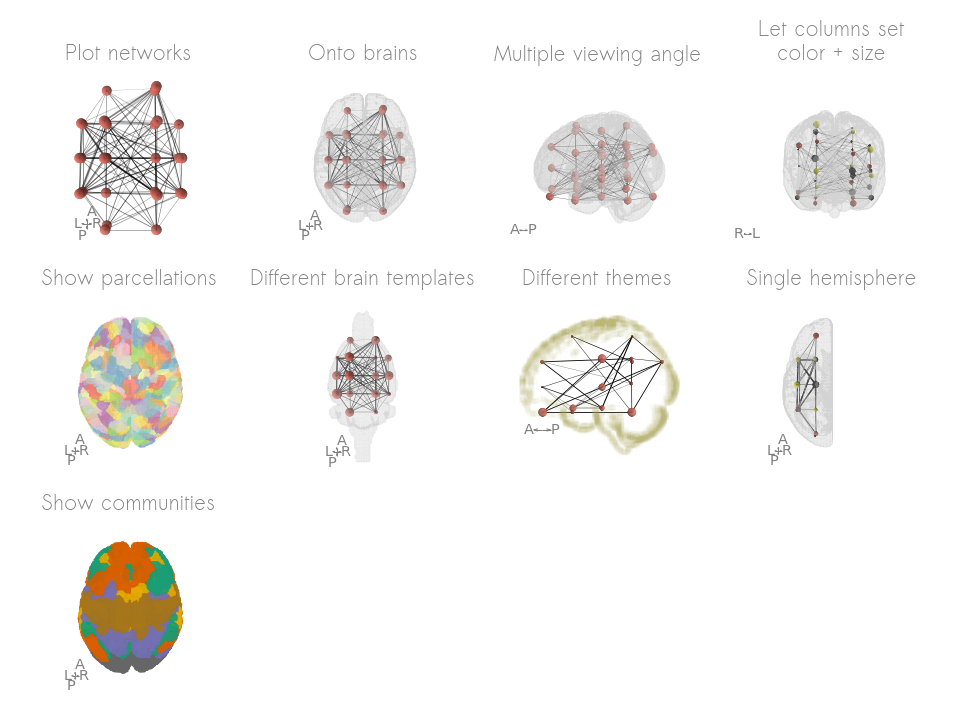
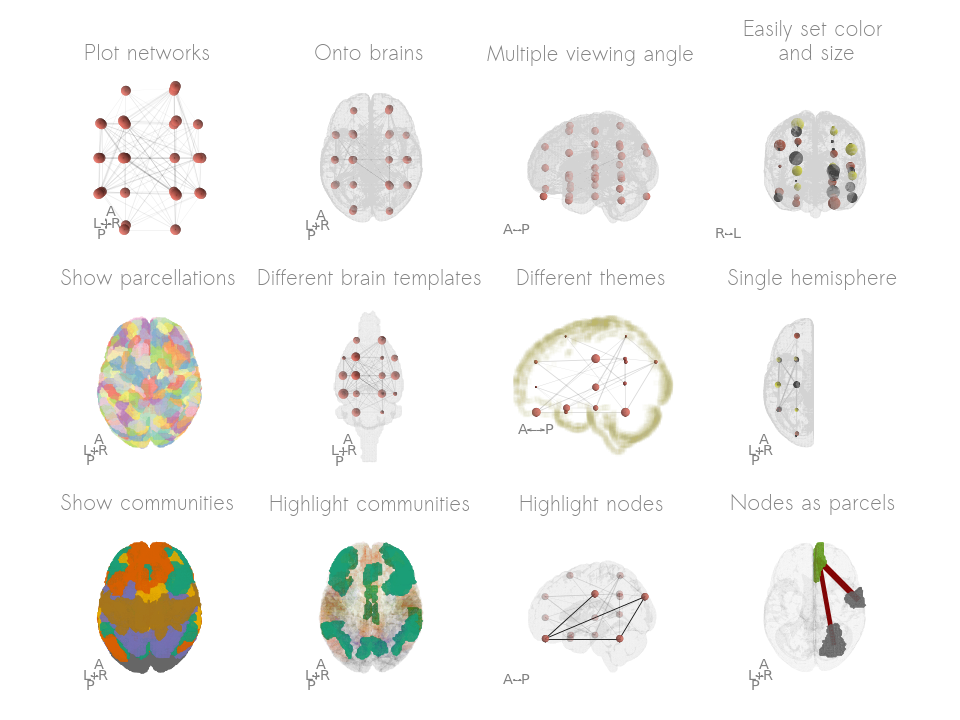
highlight result

diff --git a/netplotbrain/plot.py b/netplotbrain/plot.py
@@ -3,16 +3,18 @@ import numpy as np
 import inspect
 import pandas as pd
 from .plotting import _plot_template, _plot_template_style_filled, _plot_template_style_cloudy,\
-    _plot_edges, _plot_nodes, _plot_spheres, _set_axes_equal, _set_axes_radius, _get_view,\
+    _plot_edges, _plot_nodes, _plot_spheres,\
     _scale_nodes, _add_axis_arrows, _plot_template_style_surface, _get_nodes_from_nii, _plot_parcels,\
-    _select_single_hemisphere_nodes, _npedges2dfedges, _add_subplot_title, get_frame_input, _get_colorby_colors
+    _select_single_hemisphere_nodes, _npedges2dfedges, _add_subplot_title, get_frame_input
+    
+from .utils import _highlight_nodes, _get_colorby_colors, _set_axes_equal, _set_axes_radius, _get_view
 
 
 def plot(nodes=None, fig=None, ax=None, view='L', frames=1, edges=None, template=None, templatestyle='filled', templatealpha=0.2,
          templatevoxsize=None, templatecolor='lightgray', surface_resolution=2, templateedgethreshold=0.7, arrowaxis='auto', arrowlength=10,
          arroworigin=None, edgecolor='k', nodesize=1, nodescale=5, nodecolor='salmon', nodetype='spheres', nodecolorby=None,
          nodecmap='Dark2', edgescale=1, edgeweights=True, nodecols=['x', 'y', 'z'], nodeimg=None, nodealpha=1, hemisphere='both', title='auto', highlightnodes=None,
-         edgealpha=1):
+         edgealpha=1, highlightlevel=0.85, edgehighlightbehaviour='both'):
     # sourcery skip: merge-nested-ifs
     """
     Plot a network on a brain
@@ -104,7 +106,18 @@ def plot(nodes=None, fig=None, ax=None, view='L', frames=1, edges=None, template
         List or int point out which nodes you want to be highlighted.
         If dict, should be a single column-value pair.
         Example: highlight all nodes of that, in the node dataframe, have a community
-        value of 1, the input will be {'community': 1}.    
+        value of 1, the input will be {'community': 1}.   
+    highlightlevel : float
+        Intensity of the highlighting (opposite of alpha).
+        Value between 0 and 1, if 1, non-highlighted nodes are fully transparent.
+        If 0, non-highlighted nodes are same alpha level as highlighted nodes.
+        Default 0.85. 
+    edgehighlightbehaviour : str
+        Alternatives "both" or "any" or None.
+        Governs edge dimming when highlightnodes is on
+        If both, then highlights only edges between highlighted nodes.
+        If any, then only edges connecting any of the nodes are highlighted.
+
 
     """
     # Load edge and nodes if string is provided. 
@@ -112,13 +125,6 @@ def plot(nodes=None, fig=None, ax=None, view='L', frames=1, edges=None, template
         nodes = pd.read_csv(nodes, sep='\t', index_col=0)
     if isinstance(edges, str): 
         edges = pd.read_csv(edges, sep='\t', index_col=0)
-    if highlightnodes is not None:
-        if isinstance(highlightnodes, dict):
-            highlight_idx = nodes[highlightnodes.keys()] == highlightnodes.values
-        else:
-            highlight_idx = np.zeros(len(nodes))
-            highlight_idx[highlightnodes] = 1
-        nodes['nbp_highlight'] = highlight_idx
     # get the number of views
     if isinstance(view, list):
         nrows = len(view)
@@ -153,6 +159,8 @@ def plot(nodes=None, fig=None, ax=None, view='L', frames=1, edges=None, template
     # Set nodecolor to colorby argument
     if nodecolorby is not None:
         nodecolor = _get_colorby_colors(nodes, nodecolorby, nodecmap)
+    if highlightnodes is not None:
+        nodecolor, highlightnodes = _highlight_nodes(nodes, nodecolor, nodealpha, highlightnodes, highlightlevel)
     ax_in = ax
     # Prespecify ouput ax list
     ax_out = []
@@ -213,7 +221,8 @@ def plot(nodes=None, fig=None, ax=None, view='L', frames=1, edges=None, template
             if edges is not None:
                 edges_frame = edges.copy()
                 _plot_edges(ax, nodes_frame, edges_frame, edgewidth=edgeweights, edgewidthscale=edgescale,
-                            edgecolor=edgecolor, edgealpha=edgealpha)
+                            edgecolor=edgecolor, edgealpha=edgealpha, highlightnodes=highlightnodes, highlightlevel=highlightlevel,
+                            edgehighlightbehaviour=edgehighlightbehaviour)
             if arrowaxis_row is not None:
                 _add_axis_arrows(ax, dims=arrowaxis_row,
                                  length=arrowlength, origin=arroworigin,

diff --git a/examples/showcase_image.py b/examples/showcase_image.py
@@ -67,11 +67,12 @@ netplotbrain.plot(nodes=nodes,
                   nodealpha=0.5,
                   nodecolorby='community',
                   nodesize='centrality_measure2',
-                  title='Let columns set\ncolor + size',
+                  title='Easily set color\n and size',
                   fig=fig, ax=ax,
                   nodecmap='gnuplot',
                   edgealpha=0.5,
-                  edgescale=0.5)
+                  edgescale=0.5,
+                  nodescale=10)
 
 
 
@@ -164,6 +165,72 @@ netplotbrain.plot(nodes=atlasinfo,
                   nodecolorby='yeo7networks',
                   fig=fig, ax=ax,
                   title='Show communities')
+
+
+ax = fig.add_subplot(3, 4, 10, projection='3d')
+netplotbrain.plot(nodes=atlasinfo,
+                  nodeimg={'atlas': 'Schaefer2018',
+                           'desc': '400Parcels7Networks',
+                           'resolution': 1},
+                  template='MNI152NLin2009cAsym',
+                  templatestyle=None,
+                  view=['S'],
+                  nodetype='parcels',
+                  nodecmap='Dark2',
+                  nodecolorby='yeo7networks',
+                  nodealpha = 0.8,
+                  title = 'Highlight communities',
+                  highlightnodes={'yeo7networks': 'Cont'},
+                  highlightlevel=0.95,
+                  fig=fig, ax=ax)
+
+
+
+ax = fig.add_subplot(3, 4, 11, projection='3d')
+netplotbrain.plot(template='MNI152NLin2009cAsym',
+                  templatestyle='surface',
+                  view='L',
+                  nodes='./examples/example_nodes.tsv',
+                  hemisphere=['R'],
+                  nodescale=5,
+                  edges='./examples/example_edges.tsv',
+                  templatealpha=0.05,
+                  title='Highlight nodes',
+                  templatecolor='gray',
+                  highlightnodes=[6, 8, 25, 29],
+                  fig=fig, ax=ax)
+
+
+ax = fig.add_subplot(3, 4, 12, projection='3d')
+
+
+edgedf = pd.DataFrame()
+edgedf['i'] = [60, 95]
+edgedf['j'] = [95, 51]
+edgedf['weight'] = [1, 0.75]
+nodes_col = np.zeros([100])
+nodes_col[95] = 1
+nodes_col[[51, 60]] = 2
+nodes = pd.DataFrame(data={'seed_roi': nodes_col})
+netplotbrain.plot(template='MNI152NLin2009cAsym',
+                  templatestyle='surface',
+                  view='S',
+                  nodeimg={'atlas': 'Schaefer2018',
+                           'desc': '100Parcels7Networks',
+                           'resolution': 1},
+                  nodetype='parcels',
+                  edges=edgedf,
+                  nodes=nodes,
+                  templatealpha=0.03,
+                  title='Nodes as parcels',
+                  templatecolor='gray',
+                  nodecolor='Pastel1',
+                  highlightnodes=[60, 95, 51],
+                  highlightlevel=1,
+                  fig=fig, ax=ax,
+                  edgescale=3,
+                  nodecolorby='seed_roi',
+                  edgecolor='darkred')
 
 
 fig.savefig('./examples/figures/showcase.png', dpi=150)

diff --git a/netplotbrain/plotting/plot_edges.py b/netplotbrain/plotting/plot_edges.py
@@ -21,7 +21,19 @@ def _npedges2dfedges(edges, edgethreshold=0):
     return df
 
 
-def _plot_edges(ax, nodes, edges, edgewidth=None, edgewidthscale=1, edgecolor='k', edgecol=['i', 'j'], edgealpha=None):
+def _get_edge_highlight_alpha(node_i, node_j, highlightnodes, highlightlevel, edgehighlightbehaviour, edgealpha):
+    if highlightnodes is None or edgehighlightbehaviour is None:
+        pass
+    elif node_i in highlightnodes and node_j in highlightnodes and edgehighlightbehaviour == 'both':
+        pass
+    elif (node_i in highlightnodes or node_j in highlightnodes) and edgehighlightbehaviour == 'any':
+        pass
+    else:
+        edgealpha = edgealpha * (1 - highlightlevel)
+    return edgealpha
+
+
+def _plot_edges(ax, nodes, edges, edgewidth=None, edgewidthscale=1, edgecolor='k', edgecol=['i', 'j'], edgealpha=None, highlightnodes=None, highlightlevel=None, edgehighlightbehaviour='both'):
     """
     Plots the edges on the plot
 
@@ -44,20 +56,35 @@ def _plot_edges(ax, nodes, edges, edgewidth=None, edgewidthscale=1, edgecolor='k
         The third referencees the weights.
     edgealpha : float
         Transparency of edges.
+    highlightnodes : list
+        See netplotbrain.plot
+    highlightlevel : float 
+        See netplotbrain.plot
+    edgehighlightbehaviour : str
+        alternatives "both" or "any" or None.
+        Governs edge dimming when highlightnodes is on
+        If both, then highlights only edges between highlighted nodes.
+        If any, then only edges connecting any of the nodes are highlighted.
+
+
 
     Returns
     ----------------------
     Nothing
     """
+    # Convert highlightnodes binary list to index list
+    hl_idx = np.where(np.array(highlightnodes)==1)[0]
     # if dataframe
     for _, row in edges.iterrows():
-        #if row[edgecol[0]] != 0 and row[edgecol[1]] != 0:
+        # if row[edgecol[0]] != 0 and row[edgecol[1]] != 0:
         if edgewidth is None:
             ew = edgewidthscale
         else:
             ew = row[edgewidth] * edgewidthscale
         if row[edgecol[0]] in nodes.index and row[edgecol[1]] in nodes.index:
+            ea = _get_edge_highlight_alpha(
+                row[edgecol[0]], row[edgecol[1]], hl_idx, highlightlevel, edgehighlightbehaviour, edgealpha)
             xp = nodes.loc[list((row[edgecol[0]], row[edgecol[1]]))]['x']
             yp = nodes.loc[list((row[edgecol[0]], row[edgecol[1]]))]['y']
             zp = nodes.loc[list((row[edgecol[0]], row[edgecol[1]]))]['z']
-            ax.plot(xp, yp, zp, color=edgecolor, linewidth=ew, alpha=edgealpha)
+            ax.plot(xp, yp, zp, color=edgecolor, linewidth=ew, alpha=ea)

diff --git a/netplotbrain/utils/coloring.py b/netplotbrain/utils/coloring.py
@@ -1,0 +1,61 @@
+import matplotlib.cm as cm
+import matplotlib.colors as pltcol
+import numpy as np
+
+
+
+def _colorarray_from_string(cmap, ncolors):
+    """
+    Get colormap array from string that loops through colors
+    """
+    if cmap in pltcol.cnames or cmap[0] == '#': 
+        colors = pltcol.to_rgba_array(cmap)
+        colors = np.vstack([colors] * ncolors)
+    else:
+        colors = cm.get_cmap(cmap).colors
+        colors = colors * int(np.ceil(ncolors / len(colors)))
+        colors = np.array(colors)
+    return colors[:ncolors]
+
+
+def _highlight_nodes(nodes, nodecolor, nodealpha, highlightnodes, highlightlevel=0.75):
+    if isinstance(highlightnodes, dict):
+        highlight_idx = nodes[highlightnodes.keys()] == highlightnodes.values()
+        highlight_idx = np.squeeze(highlight_idx.values)
+    else:
+        highlight_idx = np.zeros(len(nodes))
+        highlight_idx[highlightnodes] = 1
+    if isinstance(nodecolor, str): 
+        nodecolor = _colorarray_from_string(nodecolor, len(nodes))
+    if nodecolor.shape[1] == 3:
+        nodecolor = np.hstack([nodecolor, np.vstack([nodealpha]*len(nodecolor))])
+    # dim the non-highlighted nodes
+    nodecolor[highlight_idx==0, 3] = nodealpha * (1 - highlightlevel)
+    return nodecolor, highlight_idx
+
+
+
+def _get_colorby_colors(df, colorby=None, cmap='plasma'):
+    """
+    Get array of different colors by some column 
+
+    Parameters
+    -------------------
+    df : dataframe
+        dataframe to look in for colorby argument (nodes or edges dataframe)
+    colorby : str
+        column in dataframe
+    cmap : colormap
+
+    Returns
+    -------------------
+    color_array : numpy array 
+        A N x 4 list of matplotlib colours for each node  
+    """
+    cat = np.unique(df[colorby])
+    cmap = cm.get_cmap(cmap)
+    colors = cmap(np.linspace(0, 1, len(cat)))
+    colordict = dict(zip(cat, colors))
+    color_array = df[colorby].apply(lambda z:colordict[z])
+    color_array = np.vstack(color_array.values)
+    return color_array

diff --git a/netplotbrain/plotting/plot_parcels.py b/netplotbrain/plotting/plot_parcels.py
@@ -7,6 +7,7 @@ import matplotlib.cm as cm
 from mpl_toolkits.mplot3d.art3d import Poly3DCollection
 from skimage import measure
 from .plot_templates import _select_single_hemisphere_template
+from ..utils import _colorarray_from_string
 
 def _get_nodes_from_nii(img, nodes=None, voxsize=None, template=None):
     """
@@ -87,8 +88,7 @@ def _plot_parcels(ax, img, alpha, cmap='Set2', parcel_surface_resolution=1, hemi
         nodelabels = nodelabels[1:]
     # Create a nnode length (or longer) array which repeats colormap
     if isinstance(cmap, str):
-        colors = cm.get_cmap(cmap).colors
-        colors = colors * int(np.ceil(len(nodelabels) / len(colors)))
+        colors = _colorarray_from_string(cmap, len(nodelabels))
     else:
         # If colors has already been defined prior to calling this function
         colors = cmap
@@ -104,7 +104,10 @@ def _plot_parcels(ax, img, alpha, cmap='Set2', parcel_surface_resolution=1, hemi
         # for n in np.unique(vals):
         mesh = Poly3DCollection(vertices)
         mesh.set_facecolor(colors[ni])
-        mesh.set_alpha(alpha)
+        if isinstance(colors, str): 
+            mesh.set_alpha(alpha)
+        elif colors.shape[1] != 4: 
+            mesh.set_alpha(alpha)
         ax.add_collection3d(mesh)
 
     ax.set_xlim(0, data.shape[0])

diff --git a/netplotbrain/utils/plot_utils.py b/netplotbrain/utils/plot_utils.py
@@ -1,35 +1,8 @@
 import numpy as np
 import matplotlib.pyplot as plt
-from matplotlib import cm
 
 # equal scaling solution from @AndrewCox from https://stackoverflow.com/a/63625222
-# Functions from @Mateen Ulhaq and @karlo
-
-def _get_colorby_colors(df, colorby=None, cmap='plasma'):
-    """
-    Get array of different colors by some column 
-
-    Parameters
-    -------------------
-    df : dataframe
-        dataframe to look in for colorby argument (nodes or edges dataframe)
-    colorby : str
-        column in dataframe
-    cmap : colormap
-
-    Returns
-    -------------------
-    color_array : numpy array 
-        A N x 4 list of matplotlib colours for each node  
-    """
-    cat = np.unique(df[colorby])
-    cmap = cm.get_cmap(cmap)
-    colors = cmap(np.linspace(0, 1, len(cat)))
-    colordict = dict(zip(cat, colors))
-    color_array = df[colorby].apply(lambda z:colordict[z])
-    color_array = np.vstack(color_array.values)
-    return color_array
-        
+# Functions from @Mateen Ulhaq and @karlo      
 def _set_axes_equal(ax: plt.Axes):
     """Set 3D plot axes to equal scale.
 

diff --git a/netplotbrain/plotting/__init__.py b/netplotbrain/plotting/__init__.py
@@ -1,4 +1,3 @@
-from .plot_utils import _set_axes_equal, _set_axes_radius, _get_view, _get_colorby_colors
 from .plot_edges import _plot_edges, _npedges2dfedges
 from .plot_nodes import _scale_nodes, _plot_nodes, _select_single_hemisphere_nodes
 from .plot_spheres import _plot_spheres
@@ -8,8 +7,7 @@ from .plot_dimarrows import _add_axis_arrows
 from .plot_parcels import _get_nodes_from_nii, _plot_parcels
 from .plot_title import _add_subplot_title
 from .process_input import get_frame_input
-__all__ = ['_set_axes_equal', '_get_colorby_colors', '_set_axes_radius', '_get_view',
-           '_plot_template', '_plot_template_style_filled',
+__all__ = ['_plot_template', '_plot_template_style_filled',
            '_plot_template_style_cloudy',
            '_scale_nodes', '_plot_nodes', '_plot_spheres',
            '_plot_edges', '_plot_template_style_surface',

diff --git a/examples/example1.py b/examples/example1.py
@@ -149,6 +149,9 @@ netplotbrain.plot(template='MNI152NLin2009cAsym',
                   
 plt.savefig('./examples/figures/styles1.png', dpi=150)
 
+
+
+
 netplotbrain.plot(template='MNI152NLin2009cAsym',
                   templatestyle='cloudy',
                   view='SPR',

diff --git a/netplotbrain/utils/__init__.py b/netplotbrain/utils/__init__.py
@@ -1,0 +1,2 @@
+from .plot_utils import _set_axes_equal, _set_axes_radius, _get_view
+from .coloring import _get_colorby_colors, _highlight_nodes, _colorarray_from_string

diff --git a/netplotbrain/__init__.py b/netplotbrain/__init__.py
@@ -1,3 +1,4 @@
+from . import utils
 from . import plotting
 from .plot import plot
 from . import templatesettings
